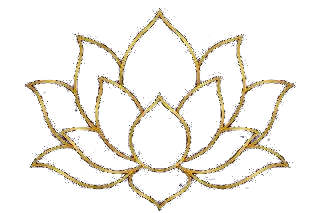
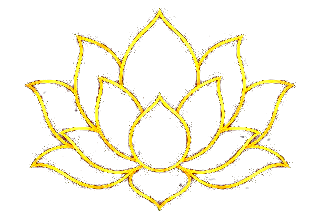
Enhance golden lotus with vibrant rich gold metallic shine and luster

diff --git a/index.html b/index.html
@@ -10,7 +10,7 @@
 <link rel="preconnect" href="https://fonts.googleapis.com">
 <link rel="preconnect" href="https://fonts.gstatic.com" crossorigin>
 <link href="https://fonts.googleapis.com/css2?family=Cinzel:wght@500;600;700&family=Cormorant+Garamond:ital,wght@0,500;0,600;1,500;1,600&family=Jost:wght@300;400;500;600&family=Noto+Serif+Devanagari:wght@500;600&display=swap" rel="stylesheet">
-<link rel="stylesheet" href="style.css?v=55">
+<link rel="stylesheet" href="style.css?v=56">
 </head>
 <body>
 
@@ -63,7 +63,7 @@
     </div>
   </div>
   <a href="#story" class="scroll-cue" aria-label="Scroll to Our Story">
-    <img src="images/lotus_gold.png?v=4" alt="Lotus" class="lotus-cue">
+    <img src="images/lotus_gold.png?v=5" alt="Lotus" class="lotus-cue">
   </a>
   <div class="hero-tag">Take Out Only &nbsp;·&nbsp; Cloud Kitchen &nbsp;·&nbsp; Edmonton</div>
 </section>

diff --git a/style.css b/style.css
@@ -190,10 +190,12 @@ nav.links a:hover::after{width:100%;}
 .scroll-cue .lotus-cue{
   width:38px;
   height:auto;
-  transition:transform .3s ease;
+  filter:drop-shadow(0 2px 4px rgba(212,175,55,0.4)) contrast(1.1) brightness(1.08);
+  transition:transform .3s ease, filter .3s ease;
 }
 .scroll-cue:hover .lotus-cue{
   transform:scale(1.12);
+  filter:drop-shadow(0 3px 7px rgba(255,215,0,0.6)) contrast(1.15) brightness(1.18);
 }
 @keyframes lotusFloat{
   0%, 100%{ transform:translateX(-50%) translateY(0); opacity:0.95; }

diff --git a/faq.html b/faq.html
@@ -10,7 +10,7 @@
 <link rel="preconnect" href="https://fonts.googleapis.com">
 <link rel="preconnect" href="https://fonts.gstatic.com" crossorigin>
 <link href="https://fonts.googleapis.com/css2?family=Cinzel:wght@500;600;700&family=Cormorant+Garamond:ital,wght@0,500;0,600;1,500;1,600&family=Jost:wght@300;400;500;600&family=Noto+Serif+Devanagari:wght@500;600&display=swap" rel="stylesheet">
-<link rel="stylesheet" href="style.css?v=55">
+<link rel="stylesheet" href="style.css?v=56">
 </head>
 <body>
 

diff --git a/menu.html b/menu.html
@@ -10,7 +10,7 @@
 <link rel="preconnect" href="https://fonts.googleapis.com">
 <link rel="preconnect" href="https://fonts.gstatic.com" crossorigin>
 <link href="https://fonts.googleapis.com/css2?family=Cinzel:wght@500;600;700&family=Cormorant+Garamond:ital,wght@0,500;0,600;1,500;1,600&family=Jost:wght@300;400;500;600&family=Noto+Serif+Devanagari:wght@500;600&display=swap" rel="stylesheet">
-<link rel="stylesheet" href="style.css?v=55">
+<link rel="stylesheet" href="style.css?v=56">
 </head>
 <body>
 
